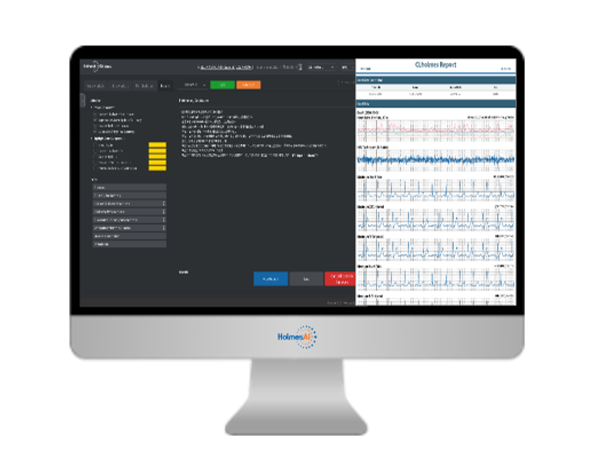
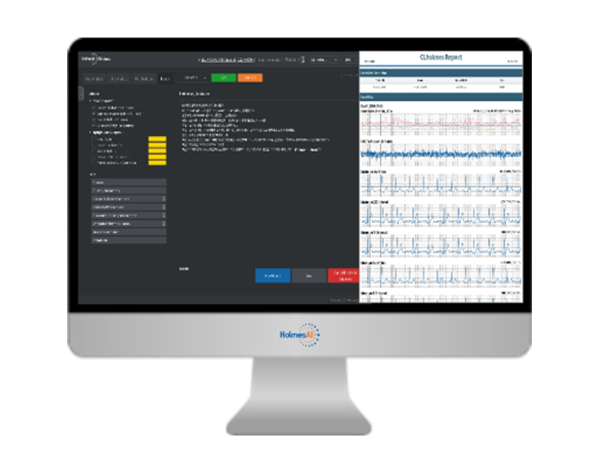
platform 사진 추가

diff --git a/html/platformAi.html b/html/platformAi.html
@@ -214,7 +214,7 @@
 
         <li>
           <div class="img_box">
-            <img src="" alt="img_03">
+            <img src="../img/devices/img_19.png" alt="img_03">
           </div>
           <div class="text_box">
             <h3>Publications</h3>

diff --git a/css/web_style.css b/css/web_style.css
@@ -30,7 +30,6 @@ body {
 .wrap {
   max-width: 1200px;
   margin: 0 auto;
-  border: 1px solid tan;
 }
 .section_wrap {
   width: 100%;
